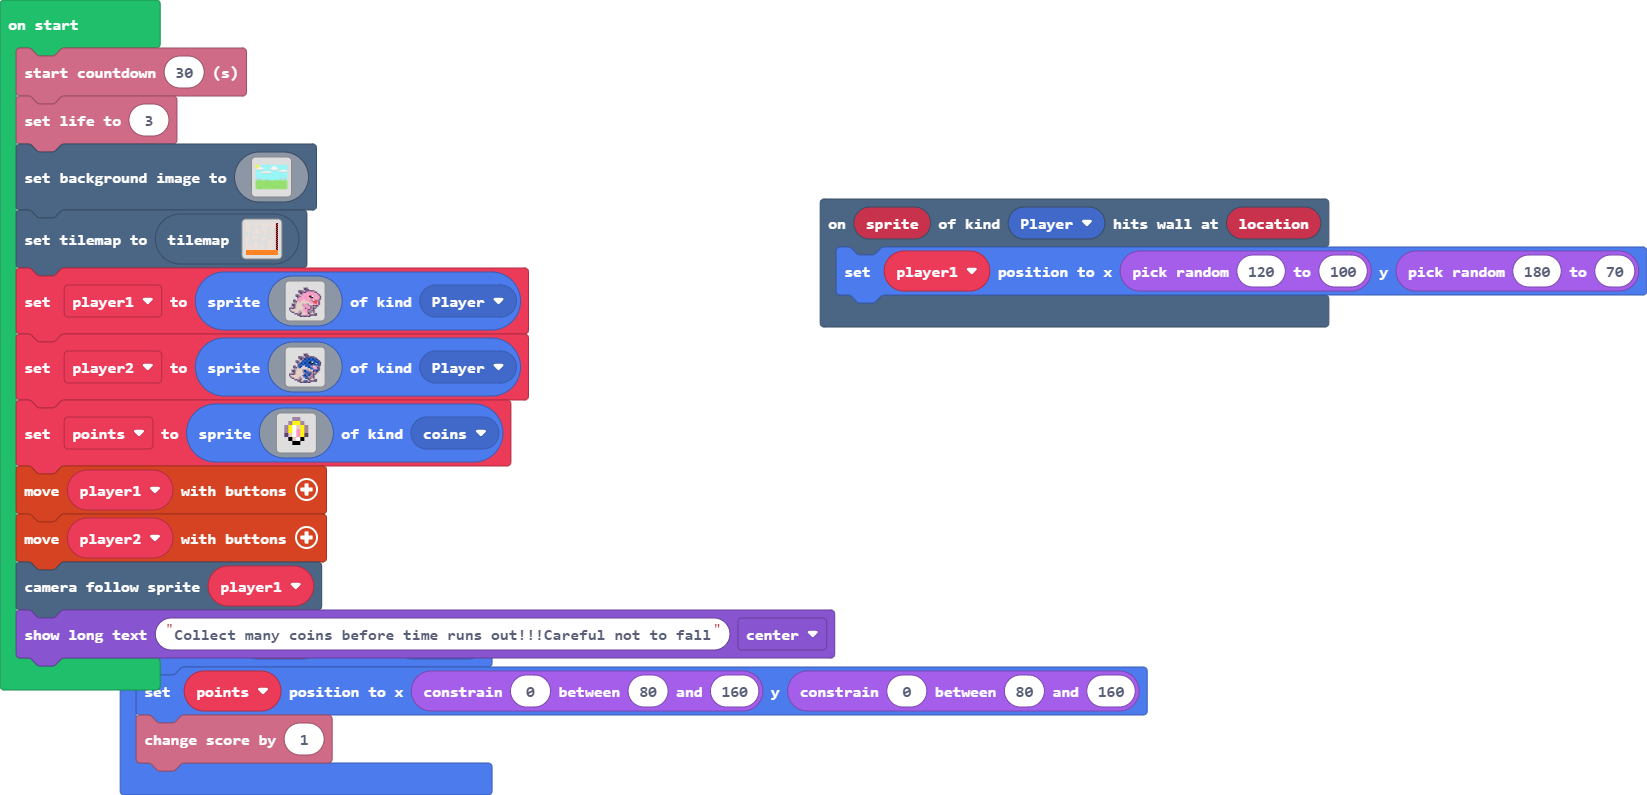
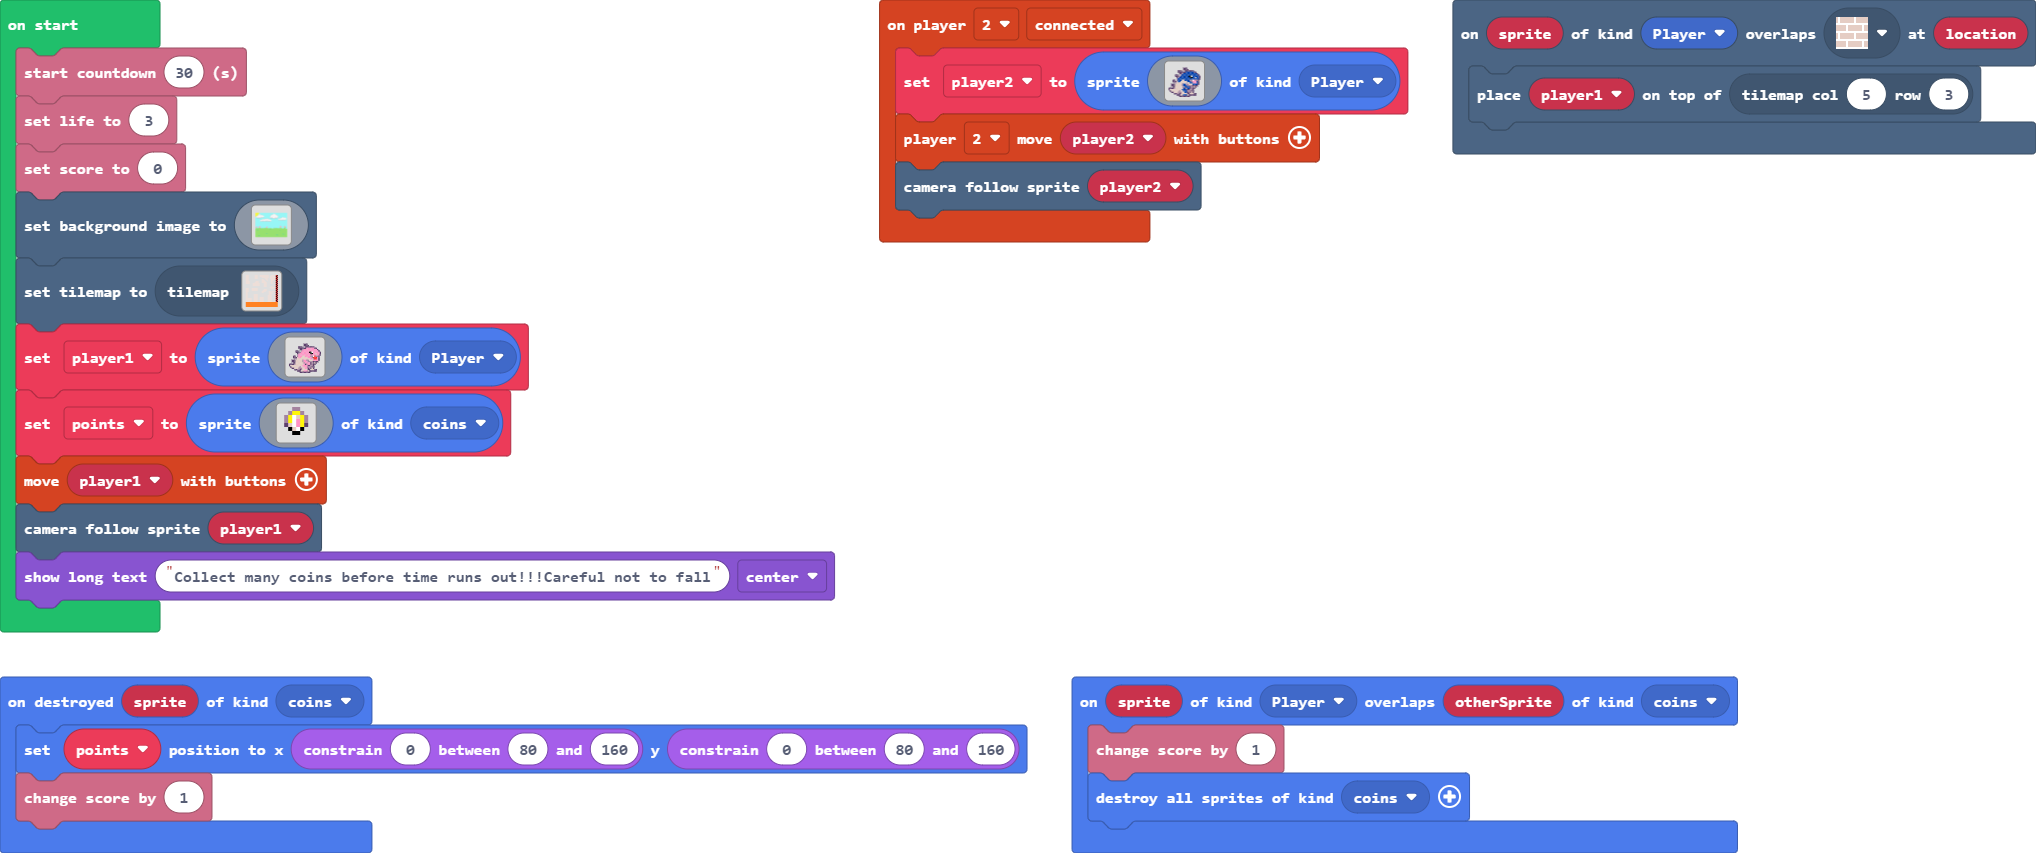
NEW STABLE

diff --git a/main.ts b/main.ts
@@ -1,17 +1,53 @@
 namespace SpriteKind {
     export const coins = SpriteKind.create()
 }
-scene.onHitWall(SpriteKind.Player, function (sprite, location) {
-    player1.setPosition(randint(120, 100), randint(180, 70))
+sprites.onOverlap(SpriteKind.Player, SpriteKind.coins, function (sprite, otherSprite) {
+    info.changeScoreBy(1)
+    sprites.destroyAllSpritesOfKind(SpriteKind.coins)
 })
 sprites.onDestroyed(SpriteKind.coins, function (sprite) {
     points.setPosition(Math.constrain(0, 80, 160), Math.constrain(0, 80, 160))
     info.changeScoreBy(1)
 })
+scene.onOverlapTile(SpriteKind.Player, sprites.builtin.brick, function (sprite, location) {
+    tiles.placeOnTile(player1, tiles.getTileLocation(5, 3))
+})
+controller.player2.onEvent(ControllerEvent.Connected, function () {
+    player2 = sprites.create(img`
+        ........................
+        ........................
+        ...........ccc..........
+        ...........cccc.........
+        .......ccc..ccccccc.....
+        .......cccccc888888cc...
+        ........ccb8888888888c..
+        .....cc..b888888888888c.
+        .....cccb888888ff188888c
+        ......cb88888888ff88d88c
+        ......b8888888888888888c
+        ...cc.b888dd8888bb13bbc.
+        ...cccd88ddddd888b3338c.
+        .....bdddddddddd88b338c.
+        ..cccdddddb88bbddd8888c.
+        ..cccdddddb888bbbbcccc..
+        ...ccddddddb8888cbcdc...
+        ccccbdddddd8cb88cbcc....
+        cddddddddd8888ccbbc.....
+        .cddddddbdd888bbbcc.....
+        ..ccdddbbbdd88cbcdc.....
+        ....ccbbcbddddccdddcc...
+        ......cccdd888dcccccc...
+        ........cccccccc........
+        `, SpriteKind.Player)
+    controller.player2.moveSprite(player2)
+    scene.cameraFollowSprite(player2)
+})
+let player2: Sprite = null
 let points: Sprite = null
 let player1: Sprite = null
 info.startCountdown(30)
 info.setLife(3)
+info.setScore(0)
 scene.setBackgroundImage(img`
     5555555555555555555599999999999999999999999999999999999999999999999999999999999999999999999999999999999999999999999999999999999999999999999999999999999999999999
     5555555555555555555599999999999999999999999999999999999999999999999999999999999999999999999999999999999999999999999999999999999999999999999999999999999999999999
@@ -161,32 +197,6 @@ player1 = sprites.create(img`
     ......cccdd333dcccccc...
     ........cccccccc........
     `, SpriteKind.Player)
-let player2 = sprites.create(img`
-    ........................
-    ........................
-    ...........ccc..........
-    ...........cccc.........
-    .......ccc..ccccccc.....
-    .......cccccc888888cc...
-    ........ccb8888888888c..
-    .....cc..b888888888888c.
-    .....cccb888888ff188888c
-    ......cb88888888ff88d88c
-    ......b8888888888888888c
-    ...cc.b888dd8888bb13bbc.
-    ...cccd88ddddd888b3338c.
-    .....bdddddddddd88b338c.
-    ..cccdddddb88bbddd8888c.
-    ..cccdddddb888bbbbcccc..
-    ...ccddddddb8888cbcdc...
-    ccccbdddddd8cb88cbcc....
-    cddddddddd8888ccbbc.....
-    .cddddddbdd888bbbcc.....
-    ..ccdddbbbdd88cbcdc.....
-    ....ccbbcbddddccdddcc...
-    ......cccdd888dcccccc...
-    ........cccccccc........
-    `, SpriteKind.Player)
 points = sprites.create(img`
     . . . b b . . . 
     . . b 5 5 b . . 
@@ -198,6 +208,5 @@ points = sprites.create(img`
     . . . . . . . . 
     `, SpriteKind.coins)
 controller.moveSprite(player1)
-controller.moveSprite(player2)
 scene.cameraFollowSprite(player1)
 game.showLongText("Collect many coins before time runs out!!!Careful not to fall", DialogLayout.Center)
